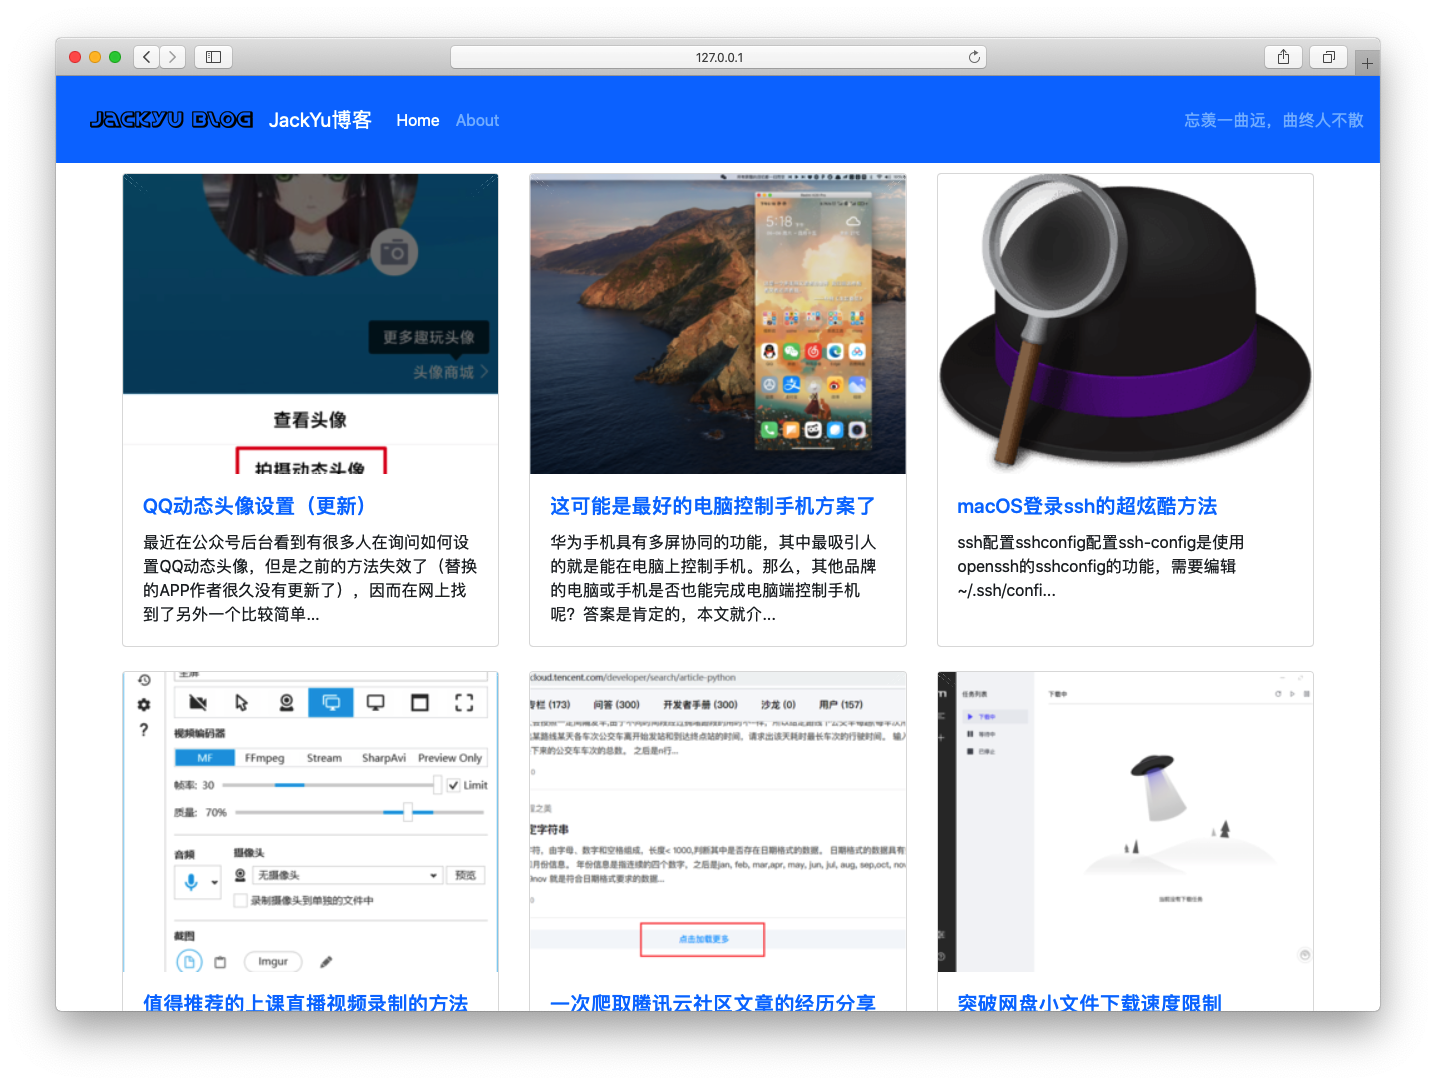
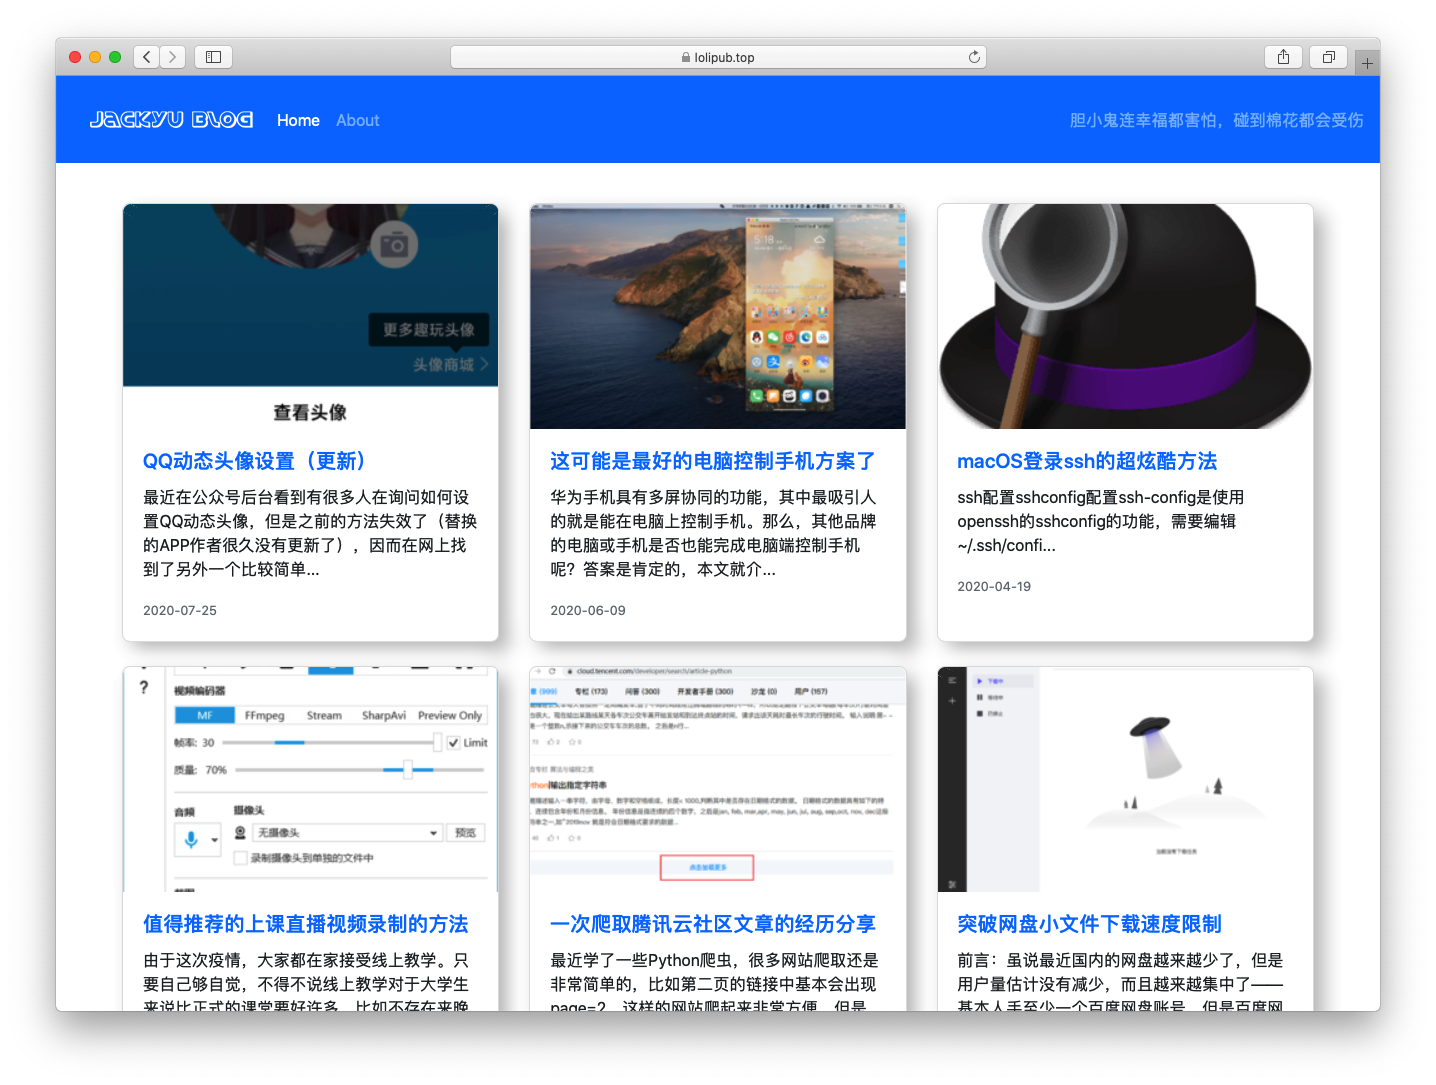
update readme

diff --git a/README.md b/README.md
@@ -73,6 +73,6 @@ jobs:
 
 ## TODO
 
-1.突然想起来还没加上文章写作时间，下次吧
+~~1.突然想起来还没加上文章写作时间，下次吧~~
 
 2.about界面还没写
